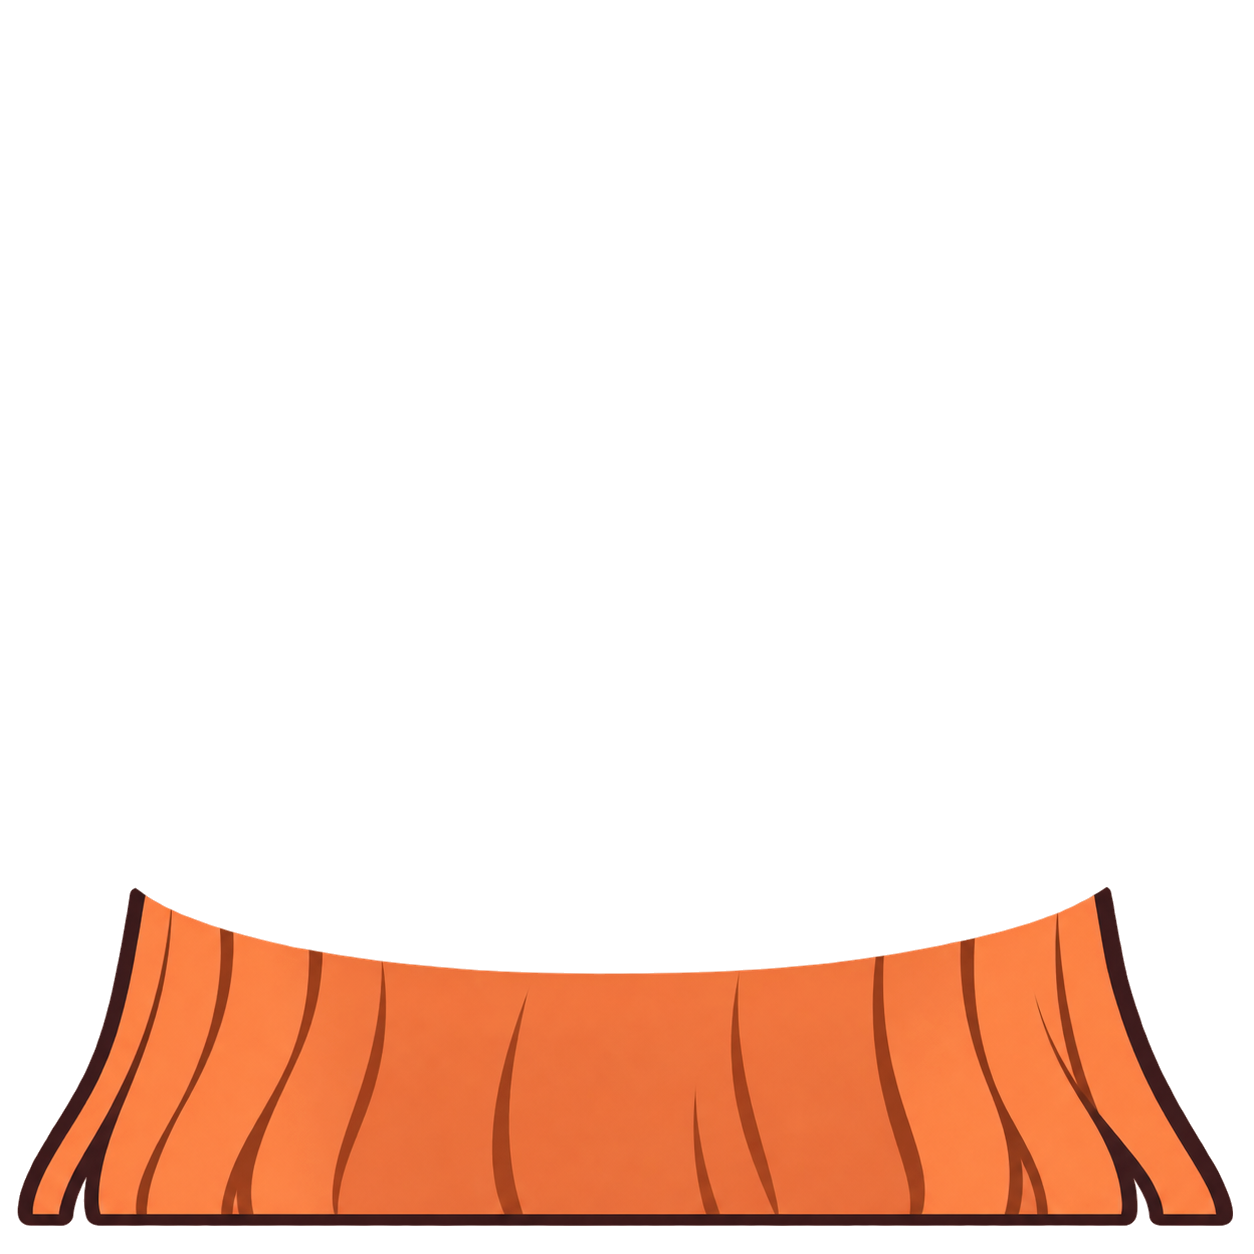
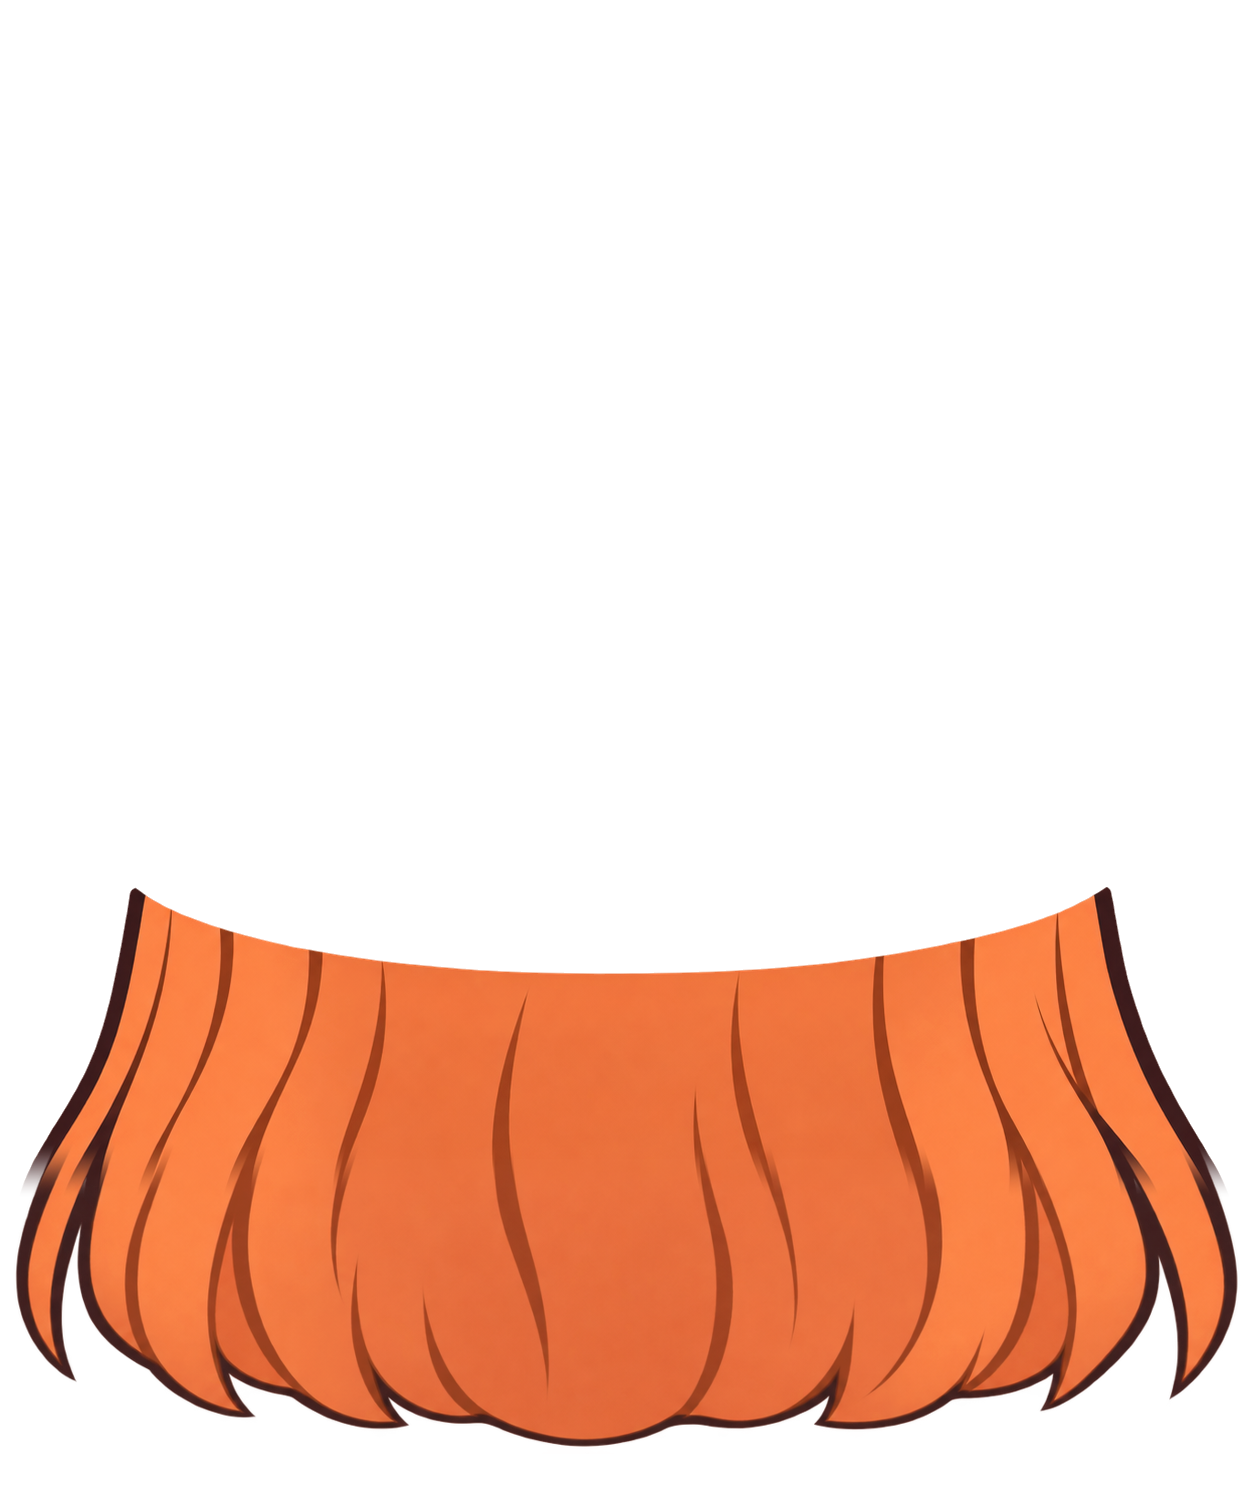
Complete rear hair with generated artwork and clip its motion overscan

Changed region(s): [[0.0, 0.5909, 0.9952, 0.9952]]

diff --git a/plugins/claude-in-codex/src/ClaudeCompanion/RearHairDiagnostics.cs b/plugins/claude-in-codex/src/ClaudeCompanion/RearHairDiagnostics.cs
@@ -1,0 +1,68 @@
+using System.IO;
+using System.Text.Json;
+using MotionLab;
+using SkiaSharp;
+
+namespace ClaudeCompanion;
+
+internal static class RearHairDiagnostics
+{
+    internal static void Run()
+    {
+        var output=Environment.GetEnvironmentVariable("CLAUDE_TEST_OUTPUT")??throw new InvalidOperationException("An isolated test output is required.");
+        var baselineRoot=Environment.GetEnvironmentVariable("CLAUDE_REAR_BASELINE")??throw new InvalidOperationException("An isolated original-material directory is required.");
+        Directory.CreateDirectory(output);var checks=new List<string>();
+        void Check(bool pass,string name){if(!pass)throw new InvalidOperationException(name);checks.Add(name);}
+        var root=Path.Combine(AppContext.BaseDirectory,"assets/motion");
+        using var oldLayer=SKBitmap.Decode(Path.Combine(baselineRoot,"layers/rear-hair.png"));
+        using var layer=SKBitmap.Decode(Path.Combine(root,"layers/rear-hair.png"));
+        Check(layer.Width==1254&&layer.Height>=1414,"generated rear hair has real pixels below the old square canvas");
+        var changed=0;var max=0;
+        for(var y=0;y<1140;y++)for(var x=0;x<1254;x++)
+        {
+            var a=oldLayer.GetPixel(x,y);var b=layer.GetPixel(x,y);
+            var difference=new[]{Math.Abs(a.Red-b.Red),Math.Abs(a.Green-b.Green),Math.Abs(a.Blue-b.Blue),Math.Abs(a.Alpha-b.Alpha)}.Max();
+            if(difference>0)changed++;max=Math.Max(max,difference);
+        }
+        Check(changed==0,"exported upper rear-hair pixels are identical to the original");
+        using var before=new Renderer(baselineRoot,rearOverscan:false);using var after=new Renderer(root);
+        var rear=new[]{after.Meshes[4],after.FrontMeshes[3],after.RearCurtain!};
+        Check(rear.All(m=>m.BottomOverscan&&m.Rest.Max(p=>p.Y)>=1414),"all rear meshes include a genuine below-frame margin");
+        Check(after.FrontMeshes.Take(3).All(m=>!m.BottomOverscan),"front hair meshes remain unchanged");
+        Check(rear.All(m=>m.Weights.All(w=>w.Length==1&&w[0].Bone==1&&w[0].Weight==1)),"rear roots and extension inherit the original full head attachment");
+        var oldHoles=0;var newHoles=0;var leaking=0;var samples=0;
+        void Save(SKBitmap image,string name)
+        {using var encoded=SKImage.FromBitmap(image);using var data=encoded.Encode(SKEncodedImageFormat.Png,100);using var file=File.Create(Path.Combine(output,name));data.SaveTo(file);}
+        void Sample(Pose pose,float wind,int index)
+        {
+            using var a=before.Render(pose,wind,wind,336);using var b=after.Render(pose,wind,wind,336);
+            foreach(var x in new[]{145,165,185,1050,1075,1100})
+            {
+                var px=(int)((x+73)*336/1400f);var py=(int)((1240+73)*336/1400f);
+                if(a.GetPixel(px,py).Alpha<245)oldHoles++;
+                if(b.GetPixel(px,py).Alpha<245)newHoles++;
+            }
+            for(var y=321;y<336;y++)for(var x=0;x<336;x++)if(b.GetPixel(x,y).Alpha!=a.GetPixel(x,y).Alpha)leaking++;
+            foreach(var mesh in rear)
+            {
+                var p=mesh.Deform(after.Rig);
+                for(var i=0;i<mesh.Indices.Length;i+=3)
+                {
+                    var u=p[mesh.Indices[i]];var v=p[mesh.Indices[i+1]];var w=p[mesh.Indices[i+2]];
+                    if((v.X-u.X)*(w.Y-u.Y)-(v.Y-u.Y)*(w.X-u.X)<=0)throw new InvalidDataException("Rear extension flipped a triangle.");
+                }
+            }
+            if(index<3){Save(a,$"before-{index}.png");Save(b,$"after-{index}.png");}
+            samples++;
+        }
+        Sample(new Pose{HeadX=12,HeadY=-14,HeadAngle=4},6.5f,0);
+        Sample(new Pose{HeadX=-12,HeadY=-14,HeadAngle=-4},-6.5f,1);
+        Sample(new Pose(),0,2);
+        foreach(var motion in Motions.Catalog)for(var i=0;i<24;i++)Sample(Motions.Evaluate(motion.Id,i/4d),i%2==0?-6.5f:6.5f,3);
+        Check(oldHoles>0,"original material reproduces transparent lower-edge gaps under motion");
+        Check(newHoles==0,"generated lower hair covers every tested lower-edge interior sample");
+        Check(leaking==0,"the fixed display cut prevents extended hair leaking below the original bottom edge");
+        File.WriteAllText(Path.Combine(output,"rear-hair-report.json"),JsonSerializer.Serialize(new{Success=true,Checks=checks,Samples=samples,OldHoles=oldHoles,NewHoles=newHoles,LeakPixels=leaking,
+            UpperDifferentPixels=changed,UpperMaximumChannelDifference=max,Scope="Generated artwork and actual packaged renderer, offscreen only. No mouse, keyboard, host state or installed-process changes."},new JsonSerializerOptions{WriteIndented=true}));
+    }
+}

diff --git a/tools/MotionLab/RearHairCompletion.cs b/tools/MotionLab/RearHairCompletion.cs
@@ -1,0 +1,43 @@
+using System.Text.Json;
+using SkiaSharp;
+
+namespace MotionLab;
+
+internal static class RearHairCompletion
+{
+    internal const int ProtectedBottom=1140,JoinBottom=1198,Height=1500;
+    internal static void Build(string repository)
+    {
+        using var original=Assets.Load(Path.Combine(repository,"assets/claude-motion-v3/layers/rear-hair.png"));
+        using var generated=Assets.Load(Path.Combine(repository,"assets/claude-motion-v4/generated/rear-hair-extension.png"));
+        using var scaled=Assets.Empty(Assets.Size,Height);
+        var scale=Assets.Size/(float)generated.Width;
+        using(var c=new SKCanvas(scaled))c.DrawBitmap(generated,new SKRect(0,0,Assets.Size,generated.Height*scale),new SKSamplingOptions(SKCubicResampler.Mitchell));
+        static int Top(SKBitmap image,int x)
+        {for(var y=0;y<image.Height;y++)if(image.GetPixel(x,y).Alpha>200)return y;return -1;}
+        var offsets=Enumerable.Range(0,Assets.Size/8).Select(i=>i*8).Select(x=>(Old:Top(original,x),New:Top(scaled,x))).Where(p=>p.Old>=0&&p.New>=0).Select(p=>p.Old-p.New).Order().ToArray();
+        var offset=offsets[offsets.Length/2];
+        using var aligned=Assets.Empty(Assets.Size,Height);
+        using(var c=new SKCanvas(aligned))c.DrawBitmap(scaled,0,offset,new SKSamplingOptions(SKFilterMode.Nearest));
+        using var result=Assets.Empty(Assets.Size,Height);
+        for(var y=0;y<Height;y++)for(var x=0;x<Assets.Size;x++)
+        {
+            var old=y<original.Height?original.GetPixel(x,y):SKColors.Transparent;
+            if(y<ProtectedBottom){result.SetPixel(x,y,old);continue;}
+            var next=aligned.GetPixel(x,y);var t=Math.Clamp((y-ProtectedBottom)/(float)(JoinBottom-ProtectedBottom),0,1);t=t*t*(3-2*t);
+            var a=old.Alpha*(1-t);var b=next.Alpha*t;var alpha=a+b;
+            byte Channel(byte p,byte q)=>(byte)Math.Clamp((int)Math.Round((p*a+q*b)/alpha),0,255);
+            result.SetPixel(x,y,alpha<.5f?SKColors.Transparent:new SKColor(Channel(old.Red,next.Red),Channel(old.Green,next.Green),Channel(old.Blue,next.Blue),(byte)Math.Round(alpha)));
+        }
+        var changed=0;for(var y=0;y<ProtectedBottom;y++)for(var x=0;x<Assets.Size;x++)if(result.GetPixel(x,y)!=original.GetPixel(x,y))changed++;
+        if(changed!=0)throw new InvalidDataException("Protected upper rear hair changed.");
+        var path=Path.Combine(repository,"assets/claude-motion-v4/layers/rear-hair.png");Assets.Save(result,path);
+        File.Copy(path,Path.Combine(repository,"plugins/claude-in-codex/assets/motion/layers/rear-hair.png"),true);
+        var output=Path.Combine(repository,"artifacts/rear-hair-extension");
+        Assets.Save(aligned,Path.Combine(output,"registered-generation.png"));
+        Assets.Save(result,Path.Combine(output,"completed-layer.png"));
+        File.WriteAllText(Path.Combine(output,"material-report.json"),JsonSerializer.Serialize(new{Success=true,ProtectedDifferentPixels=changed,ProtectedBottom,JoinBottom,Width=Assets.Size,Height,GeneratedRegistrationScale=scale,GeneratedRegistrationY=offset,
+            Source="Built-in image generation; only generated lower hair is composited. No repeated rows, texture extrapolation or procedural strand drawing."},Assets.Json));
+        Console.WriteLine($"Generated rear hair registered at y={offset}; protected differences={changed}; output={Assets.Size}x{Height}");
+    }
+}

diff --git a/plugins/claude-in-codex/src/MotionCore/Renderer.cs b/plugins/claude-in-codex/src/MotionCore/Renderer.cs
@@ -17,7 +17,7 @@ internal sealed class Renderer:IDisposable
     private readonly SKSamplingOptions sampling;
     private readonly bool highQuality;
     private static readonly SKColor Ink=new(43,25,30);
-    internal Renderer(string root,bool highQuality=true)
+    internal Renderer(string root,bool highQuality=true,bool rearOverscan=true)
     {
         this.highQuality=highQuality;sampling=highQuality?new(SKCubicResampler.Mitchell):new(SKFilterMode.Linear);
         var split=File.Exists(Path.Combine(root,"layers","hair-front-left.png"));
@@ -28,7 +28,9 @@ internal sealed class Renderer:IDisposable
         }
         if(images.ContainsKey("hair-curtain"))
         {
-            RearCurtain=new Mesh("hair-curtain",32,32){RearFlow=true};
+            RearCurtain=new Mesh("hair-curtain",32,32,rearOverscan){RearFlow=true};
+            Meshes[4].Dispose();Meshes[4]=new Mesh("rear-hair",24,18,rearOverscan);
+            FrontMeshes[3].Dispose();FrontMeshes[3]=new Mesh("hair-backing",24,28,rearOverscan);
             Meshes[4].RearFlow=true;FrontMeshes[3].RearFlow=true;
         }
     }
@@ -44,7 +46,7 @@ internal sealed class Renderer:IDisposable
         DrawMesh(canvas,4,"rear-hair");DrawMesh(canvas,2,"neck");
         if(HasFrontHair)DrawFront(canvas,3,"hair-backing");
         if(RearCurtain!=null)
-        {var curtain=images["hair-curtain"];RearCurtain.Draw(canvas,Rig,curtain.Bitmap,curtain.X,curtain.Y,highQuality);}
+        DrawRear(canvas,RearCurtain,"hair-curtain");
         canvas.Save();canvas.Concat(Rig.ToSkia(Rig.Skin[1]));
         DrawPart(canvas,"face",paint);
         DrawEye(canvas,true,pose.EyeLeft,pose);DrawEye(canvas,false,pose.EyeRight,pose);
@@ -65,8 +67,19 @@ internal sealed class Renderer:IDisposable
         if(debug)DrawDebug(canvas);
         canvas.Restore();
     }
-    private void DrawMesh(SKCanvas c,int index,string name){var p=images[name];Meshes[index].Draw(c,Rig,p.Bitmap,p.X,p.Y,highQuality);}
-    private void DrawFront(SKCanvas c,int index,string name){var p=images[name];FrontMeshes[index].Draw(c,Rig,p.Bitmap,p.X,p.Y,highQuality);}
+    private void DrawMesh(SKCanvas c,int index,string name)=>DrawRear(c,Meshes[index],name);
+    private void DrawFront(SKCanvas c,int index,string name)=>DrawRear(c,FrontMeshes[index],name);
+    private void DrawRear(SKCanvas c,Mesh mesh,string name)
+    {
+        var p=images[name];
+        if(mesh.BottomOverscan)
+        {
+            // This cut belongs to the viewport, not the moving head bone.
+            c.Save();var clip=c.LocalClipBounds;clip.Bottom=Math.Min(clip.Bottom,RearHairFlow.DisplayBottom);c.ClipRect(clip,SKClipOperation.Intersect,false);
+        }
+        mesh.Draw(c,Rig,p.Bitmap,p.X,p.Y,highQuality);
+        if(mesh.BottomOverscan)c.Restore();
+    }
     private void DrawPart(SKCanvas c,string name,SKPaint ink){var p=images[name];c.DrawBitmap(p.Bitmap,p.X,p.Y,sampling,ink);}
     private void DrawEye(SKCanvas c,bool left,float openness,Pose pose)
     {

diff --git a/plugins/claude-in-codex/src/MotionCore/Rig.cs b/plugins/claude-in-codex/src/MotionCore/Rig.cs
@@ -47,6 +47,7 @@ internal sealed class Mesh:IDisposable
     internal Influence[][] Weights {get;}
     internal ushort[] Indices {get;}
     internal string Name {get;}
+    internal bool BottomOverscan {get;}
     private bool rearFlow;
     internal bool RearFlow
     {
@@ -60,13 +61,16 @@ internal sealed class Mesh:IDisposable
             }
         }
     }
-    internal Mesh(string name,int columns=32,int rows=36)
+    internal Mesh(string name,int columns=32,int rows=36,bool bottomOverscan=false)
     {
-        Name=name;Rest=new Vector2[(columns+1)*(rows+1)];Weights=new Influence[Rest.Length][];var triangles=new List<ushort>();
-        for(var y=0;y<=rows;y++)for(var x=0;x<=columns;x++)
+        Name=name;BottomOverscan=bottomOverscan;
+        var ys=Enumerable.Range(0,rows+1).Select(y=>y*1254f/rows).ToList();
+        if(bottomOverscan){ys.Add(RearHairFlow.ExtensionStart);ys.Add(RearHairFlow.ExtensionBottom);ys=ys.Distinct().Order().ToList();}
+        Rest=new Vector2[(columns+1)*ys.Count];Weights=new Influence[Rest.Length][];var triangles=new List<ushort>();
+        for(var y=0;y<ys.Count;y++)for(var x=0;x<=columns;x++)
         {
-            var i=y*(columns+1)+x;var point=new Vector2(x*1254f/columns,y*1254f/rows);Rest[i]=point;Weights[i]=Assign(name,point);
-            if(x<columns&&y<rows)
+            var i=y*(columns+1)+x;var point=new Vector2(x*1254f/columns,ys[y]);Rest[i]=point;Weights[i]=Assign(name,point);
+            if(x<columns&&y<ys.Count-1)
             {
                 var b=i+columns+1;triangles.AddRange([(ushort)i,(ushort)(i+1),(ushort)b,(ushort)(i+1),(ushort)(b+1),(ushort)b]);
             }

diff --git a/plugins/claude-in-codex/src/ClaudeCompanion/App.xaml.cs b/plugins/claude-in-codex/src/ClaudeCompanion/App.xaml.cs
@@ -12,6 +12,11 @@ public partial class App : Application
     protected override async void OnStartup(StartupEventArgs e)
     {
         base.OnStartup(e);
+        if(e.Args.Contains("--rear-hair-test"))
+        {
+            ShutdownMode=ShutdownMode.OnExplicitShutdown;
+            try{RearHairDiagnostics.Run();Shutdown(0);}catch(Exception ex){Diagnostics.WriteFailure(ex);Shutdown(1);}return;
+        }
         if(e.Args.Contains("--expression-test")||e.Args.Contains("--expression-before-test"))
         {
             ShutdownMode=ShutdownMode.OnExplicitShutdown;

diff --git a/tools/MotionLab/Program.cs b/tools/MotionLab/Program.cs
@@ -4,6 +4,7 @@ using System.Text.Json;
 
 if(args.Length<1)throw new ArgumentException("Usage: MotionLab <repo> [prepare|neutral|bake|verify]");
 var repository=Path.GetFullPath(args[0]);var command=args.Length>1?args[1]:"bake";
+if(command=="rear-hair-complete"){RearHairCompletion.Build(repository);return;}
 if(command=="completion-draft"){CompletionDraft.Run(repository);return;}
 if(command=="front-hair-inspect"){FrontHairBuild.Inspect(repository);return;}
 if(command=="front-hair-build"){FrontHairBuild.Build(repository);return;}

diff --git a/plugins/claude-in-codex/src/MotionCore/RearHairFlow.cs b/plugins/claude-in-codex/src/MotionCore/RearHairFlow.cs
@@ -5,6 +5,7 @@ namespace MotionLab;
 internal static class RearHairFlow
 {
     internal const float RootY=365,TipY=1218,MaximumOffset=14;
+    internal const float ExtensionStart=1198,ExtensionBottom=1414,DisplayBottom=1254;
     internal static float Amount(float y)
     {var t=Math.Clamp((y-RootY)/(TipY-RootY),0,1);return t*t;}
     internal static float Offset(float sway,float tip)=>Math.Clamp(-10*(.7f*sway+.3f*tip),-MaximumOffset,MaximumOffset);
